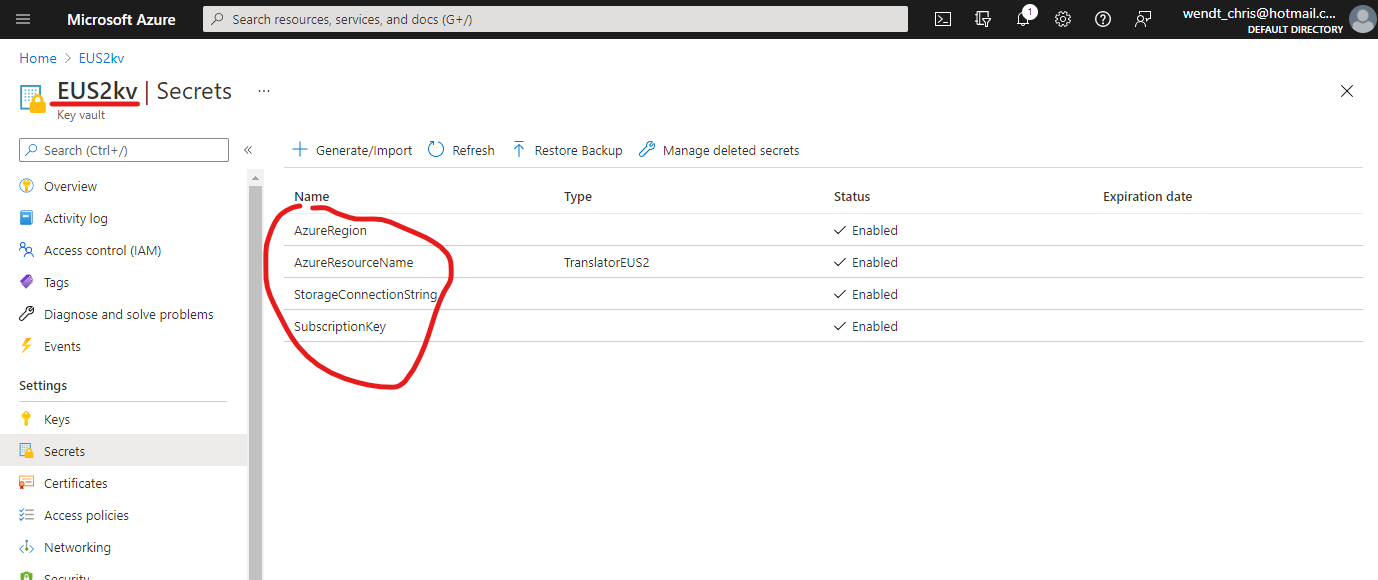
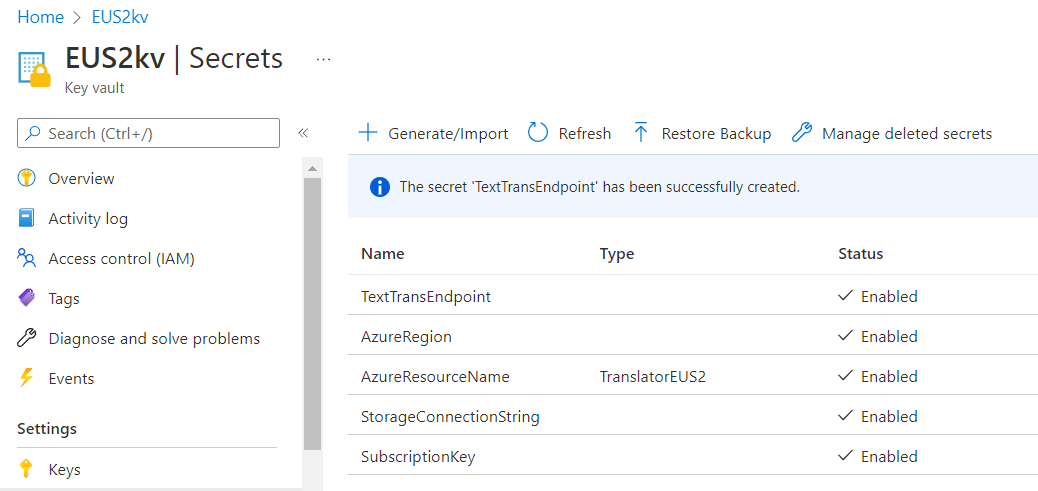
Update images, add TextTransEndpoint to Keyvault.

diff --git a/docs/index.md b/docs/index.md
@@ -113,16 +113,18 @@ To create a Key Vault for use with Document Translation:
     - AzureRegion
     - AzureResourceName
     - StorageConnectionString
+    - TextTransEndpoint
     - SubscriptionKey
 
 and copy the **secret from the Translator** resource and the **connection string from the Storage** resource.
 
-The names of the secrets must be exactly like this, and the Key Valut resource should look like this:
+The names of the secrets must be exactly like this, and the Key Vault resource should look like this:
 
 ![Set up Azure Key Vault](images/AzureKeyVault.png)
 
-Provide the users with the **name** of the Key Vault. In the example the name is "EUS2kv". 
+Provide the users with the **VCault URI** of the Key Vault. In the example the URI is "https://eus2kv.vault.azure.net/". 
 Users will need to log in to Azure using the **Azure CLI** and **PowerShell**.
+![Key Vault URI](images/AzureKeyVaultOverview.png)
 
 
 ### Translate Documents
